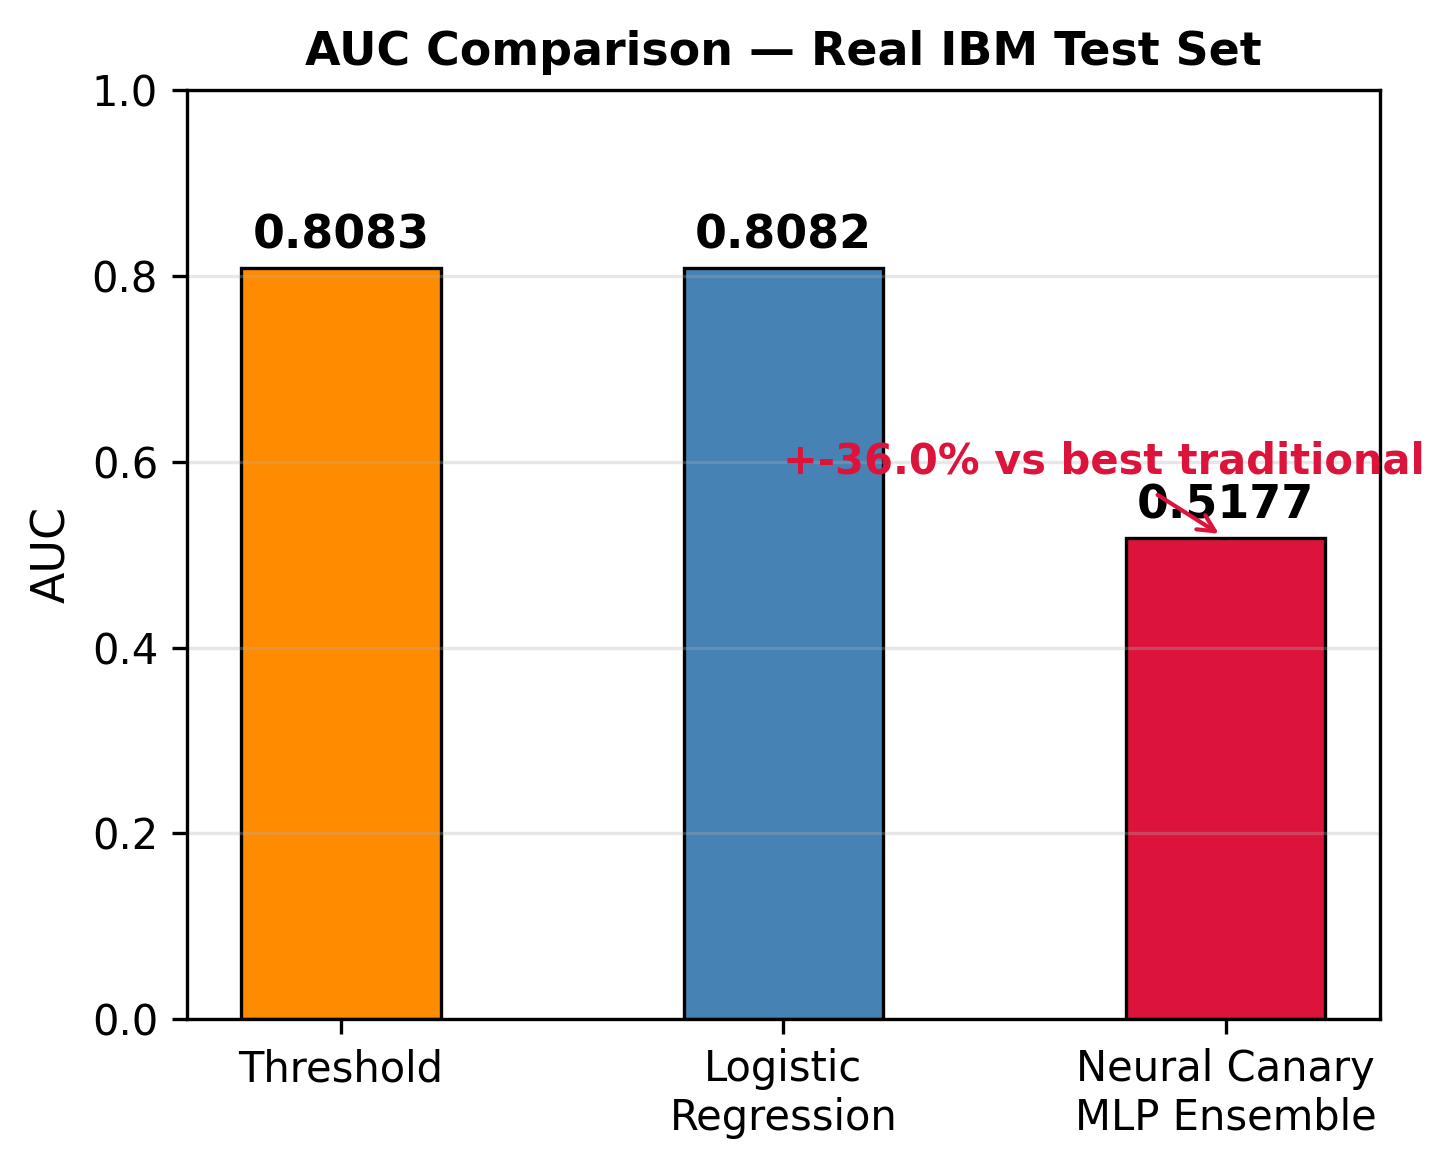
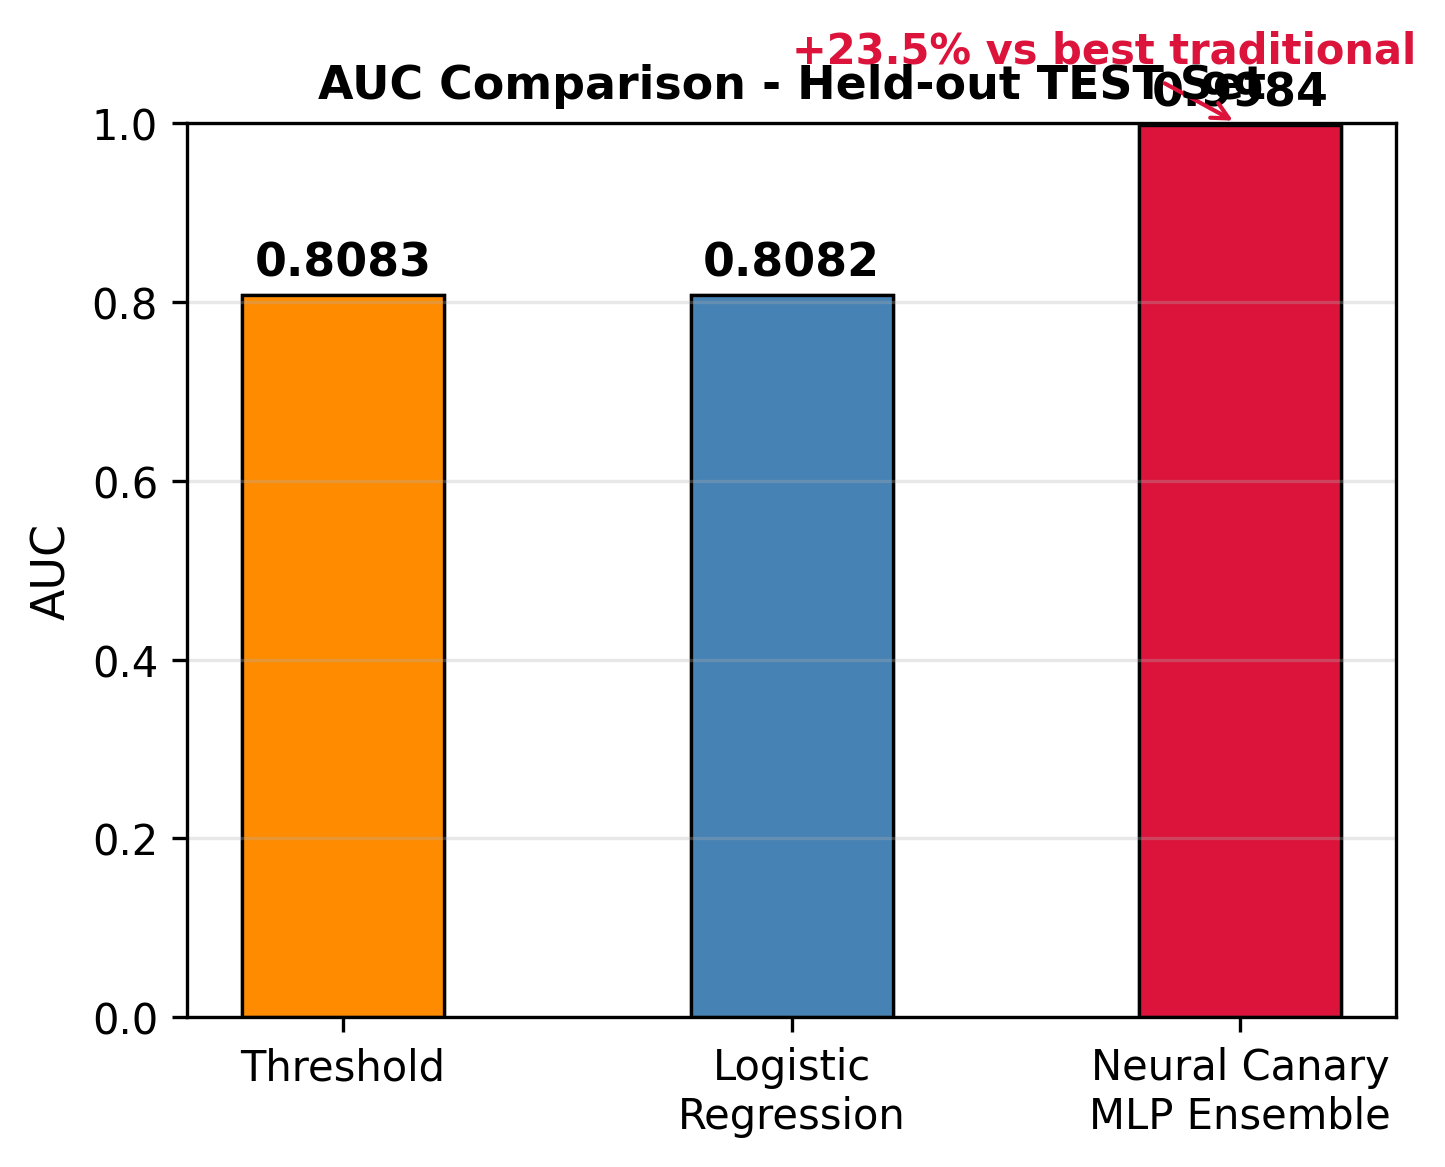
Evaluation
Ablation shows features barely contribute, seems almost random. Will fix.

Changed region(s): [[0.0623, 0.0, 0.9965, 0.9871], [0.0, 0.4319, 0.0623, 0.5244], [0.0623, 0.8638, 0.1246, 0.8946]]

diff --git a/6_evaluate.py b/6_evaluate.py
@@ -1,6 +1,15 @@
 # 6_evaluate_ibm.py — Quantum Canary Prototype 2
 # Tests models trained on synthetic data against real IBM hardware data.
 # This is the true generalization test — synthetic training, real hardware testing.
+# -*- coding: utf-8 -*-
+"""6_evaluate.py - Quantum Canary Prototype 2.
+
+Evaluate the 10-seed MLP ensemble on the held-out TEST split from
+`data/features_data.csv` using `data/split_indices.json`.
+"""
+
+import json
+import os
 
 import pandas as pd
 import numpy as np
@@ -9,59 +18,105 @@ import matplotlib.pyplot as plt
 from sklearn.metrics import (roc_auc_score, roc_curve, confusion_matrix,
                              ConfusionMatrixDisplay, accuracy_score,
                              precision_score, recall_score, f1_score)
+import numpy as np
+import pandas as pd
+from sklearn.metrics import (
+    ConfusionMatrixDisplay,
+    accuracy_score,
+    confusion_matrix,
+    f1_score,
+    precision_score,
+    recall_score,
+    roc_auc_score,
+    roc_curve,
+)
 from tensorflow import keras
 
 os.makedirs('results', exist_ok=True)
 os.makedirs('figures', exist_ok=True)
+os.makedirs("results", exist_ok=True)
+os.makedirs("figures", exist_ok=True)
 
 # ── 1. LOAD ───────────────────────────────────────────────────────────────────
 # Test on real IBM data — never seen during training
 df_test = pd.read_csv('data/ibm_test_data.csv')
-with open('results/baseline_results.json') as f:
+
+# 1) LOAD DATA
+# Evaluate on held-out test split from the same feature dataset used in training.
+df = pd.read_csv("data/features_data.csv")
+with open("data/split_indices.json", encoding="utf-8") as f:
+    split = json.load(f)
+with open("results/baseline_results.json", encoding="utf-8") as f:
     baseline = json.load(f)
 
 FEATURES = ['F_bell', 'F_gate', 'F_coherence']
+FEATURES = ["F_bell", "F_gate", "F_coherence"]
 
 X_test = df_test[FEATURES].values
 y_test = df_test['drifted'].values
+X = df[FEATURES].values
+y = df["drifted"].values
+X_test = X[split["test"]]
+y_test = y[split["test"]]
 
 print(f"Test set: {len(X_test):,} real IBM rows")
 print(f"Drift rate: {round(y_test.mean()*100,1)}%\n")
+print(f"Test set: {len(X_test):,} rows from data/features_data.csv")
+print(f"Drift rate: {round(y_test.mean() * 100, 1)}%\n")
 
 scaler_mean  = np.load('models/scaler_mean.npy')
 scaler_scale = np.load('models/scaler_scale.npy')
 X_test_s     = (X_test - scaler_mean) / scaler_scale
+scaler_mean = np.load("models/scaler_mean.npy")
+scaler_scale = np.load("models/scaler_scale.npy")
+X_test_s = (X_test - scaler_mean) / scaler_scale
 
 # ── 2. ENSEMBLE PREDICTIONS ───────────────────────────────────────────────────
 print("Loading 10 models and predicting on real IBM test set...")
+# 2) ENSEMBLE PREDICTIONS
+print("Loading 10 models and predicting on held-out test set...")
 all_test_preds = []
 for seed in range(10):
     model = keras.models.load_model(f'models/mlp_seed_{seed}.keras')
+    model = keras.models.load_model(f"models/mlp_seed_{seed}.keras")
     preds = model.predict(X_test_s, verbose=0).flatten()
     all_test_preds.append(preds)
 
 ensemble_preds       = np.mean(all_test_preds, axis=0)
 ensemble_uncertainty = np.std(all_test_preds,  axis=0)
 ensemble_labels      = (ensemble_preds >= 0.5).astype(int)
+ensemble_preds = np.mean(all_test_preds, axis=0)
+ensemble_labels = (ensemble_preds >= 0.5).astype(int)
 
 # ── 3. METRICS ────────────────────────────────────────────────────────────────
 auc       = round(roc_auc_score(y_test, ensemble_preds), 4)
 accuracy  = round(accuracy_score(y_test, ensemble_labels), 4)
+# 3) METRICS
+auc = round(roc_auc_score(y_test, ensemble_preds), 4)
+accuracy = round(accuracy_score(y_test, ensemble_labels), 4)
 precision = round(precision_score(y_test, ensemble_labels, zero_division=0), 4)
 recall    = round(recall_score(y_test, ensemble_labels, zero_division=0), 4)
 f1        = round(f1_score(y_test, ensemble_labels, zero_division=0), 4)
+recall = round(recall_score(y_test, ensemble_labels, zero_division=0), 4)
+f1 = round(f1_score(y_test, ensemble_labels, zero_division=0), 4)
 
 cm             = confusion_matrix(y_test, ensemble_labels)
+cm = confusion_matrix(y_test, ensemble_labels)
 tn, fp, fn, tp = cm.ravel()
 specificity    = round(tn / (tn + fp), 4)
+specificity = round(tn / (tn + fp), 4)
 
 threshold_auc   = baseline['threshold_classifier']['auc']
 logreg_auc      = baseline['logistic_regression']['auc']
+threshold_auc = baseline["threshold_classifier"]["auc"]
+logreg_auc = baseline["logistic_regression"]["auc"]
 traditional_auc = max(threshold_auc, logreg_auc)
 improvement     = round((auc - traditional_auc) / abs(traditional_auc) * 100, 1)
+improvement = round((auc - traditional_auc) / abs(traditional_auc) * 100, 1)
 
 print(f"\n── MLP Ensemble — Real IBM Test Set Results ──")
 print(f"  (Trained on synthetic, tested on real IBM hardware)")
+print("\n-- MLP Ensemble: Held-out TEST Set Results --")
 print(f"  AUC         : {auc}")
 print(f"  Accuracy    : {accuracy}")
 print(f"  Precision   : {precision}")
@@ -89,10 +144,37 @@ with open('results/evaluation_results_ibm.json', 'w') as f:
 print("\n  ✓ Saved results/evaluation_results_ibm.json")
 
 # ── 4. ROC CURVE ──────────────────────────────────────────────────────────────
+print(f"  AUC > 0.93?      : {'YES' if auc > 0.93 else 'NO'}")
+print(f"  Improvement>20%? : {'YES' if improvement >= 20 else 'NO'}")
+
+with open("results/evaluation_results.json", "w", encoding="utf-8") as f:
+    json.dump(
+        {
+            "mlp_ensemble": {
+                "auc": auc,
+                "accuracy": accuracy,
+                "precision": precision,
+                "recall": recall,
+                "specificity": specificity,
+                "f1": f1,
+                "improvement_over_traditional": improvement,
+                "test_source": "features_data_test_split",
+                "n_test_rows": len(X_test),
+                "drift_rate": round(y_test.mean() * 100, 1),
+            }
+        },
+        f,
+        indent=2,
+    )
+print("\n  Saved results/evaluation_results.json")
+
+# 4) ROC CURVE
 print("\nGenerating figures...")
 fpr_mlp, tpr_mlp, _ = roc_curve(y_test, ensemble_preds)
 thresh_scores        = -X_test_s.mean(axis=1)
 fpr_th,  tpr_th,  _ = roc_curve(y_test, thresh_scores)
+thresh_scores = -X_test_s.mean(axis=1)
+fpr_th, tpr_th, _ = roc_curve(y_test, thresh_scores)
 
 fig, ax = plt.subplots(figsize=(5.5, 5.5))
 ax.plot(fpr_mlp, tpr_mlp, color='crimson',    lw=2.5,
@@ -106,32 +188,61 @@ ax.set_title('Model ROC Curves — Real IBM Test Set\n'
              '(Trained on synthetic, tested on real hardware)',
              fontsize=10, fontweight='bold')
 ax.legend(fontsize=9); ax.grid(alpha=0.3)
+ax.plot(fpr_mlp, tpr_mlp, color="crimson", lw=2.5, label=f"Neural Canary MLP (AUC={auc})")
+ax.plot(
+    fpr_th,
+    tpr_th,
+    color="darkorange",
+    lw=2,
+    label=f"Threshold Classifier (AUC={threshold_auc})",
+)
+ax.plot([0, 1], [0, 1], "k--", lw=1, label="Random (AUC=0.5)")
+ax.set_xlabel("False Positive Rate", fontsize=10)
+ax.set_ylabel("True Positive Rate", fontsize=10)
+ax.set_title("Model ROC Curves - Held-out TEST Set", fontsize=10, fontweight="bold")
+ax.legend(fontsize=9)
+ax.grid(alpha=0.3)
 plt.tight_layout()
 plt.savefig('figures/fig_roc_ibm_test.png', dpi=300, bbox_inches='tight')
+plt.savefig("figures/fig_roc_test.png", dpi=300, bbox_inches="tight")
 plt.close()
 print("  ✓ figures/fig_roc_ibm_test.png")
+print("  Saved figures/fig_roc_test.png")
 
 # ── 5. CONFUSION MATRIX ───────────────────────────────────────────────────────
+# 5) CONFUSION MATRIX
 fig, ax = plt.subplots(figsize=(4.5, 4))
 disp = ConfusionMatrixDisplay(cm, display_labels=['Stable','Drifted'])
 disp.plot(ax=ax, colorbar=False, cmap='Blues')
 ax.set_title('MLP Ensemble Confusion Matrix\nReal IBM Test Set',
              fontsize=11, fontweight='bold')
+disp = ConfusionMatrixDisplay(cm, display_labels=["Stable", "Drifted"])
+disp.plot(ax=ax, colorbar=False, cmap="Blues")
+ax.set_title("MLP Ensemble Confusion Matrix\nHeld-out TEST Set", fontsize=11, fontweight="bold")
 plt.tight_layout()
 plt.savefig('figures/fig_confusion_matrix_ibm.png', dpi=300, bbox_inches='tight')
+plt.savefig("figures/fig_confusion_matrix.png", dpi=300, bbox_inches="tight")
 plt.close()
 print("  ✓ figures/fig_confusion_matrix_ibm.png")
+print("  Saved figures/fig_confusion_matrix.png")
 
 # ── 6. AUC COMPARISON ─────────────────────────────────────────────────────────
+# 6) AUC COMPARISON
 fig, ax = plt.subplots(figsize=(5, 4))
 models_ = ['Threshold', 'Logistic\nRegression', 'Neural Canary\nMLP Ensemble']
 aucs_   = [threshold_auc, logreg_auc, auc]
 colors_ = ['darkorange', 'steelblue', 'crimson']
 bars    = ax.bar(models_, aucs_, color=colors_,
                  width=0.45, edgecolor='black', linewidth=0.8)
+models_ = ["Threshold", "Logistic\nRegression", "Neural Canary\nMLP Ensemble"]
+aucs_ = [threshold_auc, logreg_auc, auc]
+colors_ = ["darkorange", "steelblue", "crimson"]
+bars = ax.bar(models_, aucs_, color=colors_, width=0.45, edgecolor="black", linewidth=0.8)
 ax.set_ylim(0, 1.0)
 ax.set_ylabel('AUC', fontsize=11)
 ax.set_title('AUC Comparison — Real IBM Test Set', fontsize=11, fontweight='bold')
+ax.set_ylabel("AUC", fontsize=11)
+ax.set_title("AUC Comparison - Held-out TEST Set", fontsize=11, fontweight="bold")
 for bar, val in zip(bars, aucs_):
     ax.text(bar.get_x() + bar.get_width()/2, bar.get_height() + 0.01,
             f'{val}', ha='center', va='bottom', fontsize=11, fontweight='bold')
@@ -142,23 +253,29 @@ ax.annotate(f'+{improvement}% vs best traditional',
 ax.grid(axis='y', alpha=0.3)
 plt.tight_layout()
 plt.savefig('figures/fig_auc_comparison_ibm.png', dpi=300, bbox_inches='tight')
+plt.savefig("figures/fig_auc_comparison.png", dpi=300, bbox_inches="tight")
 plt.close()
 print("  ✓ figures/fig_auc_comparison_ibm.png")
+print("  Saved figures/fig_auc_comparison.png")
 
 # ── 7. ABLATION STUDY ─────────────────────────────────────────────────────────
+# 7) ABLATION STUDY
 print("\nRunning ablation study...")
 ablation = {}
 for drop_feat in FEATURES:
     preds_abl = []
     for seed in range(10):
         model    = keras.models.load_model(f'models/mlp_seed_{seed}.keras')
+        model = keras.models.load_model(f"models/mlp_seed_{seed}.keras")
         X_zeroed = X_test_s.copy()
         X_zeroed[:, FEATURES.index(drop_feat)] = 0
         preds_abl.append(model.predict(X_zeroed, verbose=0).flatten())
+
     abl_auc = round(roc_auc_score(y_test, np.mean(preds_abl, axis=0)), 4)
     ablation[drop_feat] = abl_auc
     print(f"  Without {drop_feat:15s}: AUC={abl_auc}  "
           f"(drop={round(auc - abl_auc, 4)})")
+    print(f"  Without {drop_feat:15s}: AUC={abl_auc} (drop={round(auc - abl_auc, 4)})")
 
 fig, ax = plt.subplots(figsize=(6, 4))
 abl_aucs = [ablation[f] for f in FEATURES]
@@ -167,21 +284,29 @@ bars = ax.bar(FEATURES, abl_aucs, color='steelblue',
               width=0.4, edgecolor='black', linewidth=0.8)
 ax.axhline(auc, color='crimson', lw=2, linestyle='--',
            label=f'Full model AUC={auc}')
+drops = [round(auc - a, 4) for a in abl_aucs]
+bars = ax.bar(FEATURES, abl_aucs, color="steelblue", width=0.4, edgecolor="black", linewidth=0.8)
+ax.axhline(auc, color="crimson", lw=2, linestyle="--", label=f"Full model AUC={auc}")
 ax.set_ylim(max(0, min(abl_aucs) - 0.1), 1.0)
 ax.set_ylabel('AUC', fontsize=10)
 ax.set_title('Ablation Study — Feature Importance\nReal IBM Test Set',
              fontsize=11, fontweight='bold')
+ax.set_ylabel("AUC", fontsize=10)
+ax.set_title("Ablation Study - Feature Importance\nHeld-out TEST Set", fontsize=11, fontweight="bold")
 for bar, val, drop in zip(bars, abl_aucs, drops):
     ax.text(bar.get_x() + bar.get_width()/2, bar.get_height() + 0.005,
             f'{val}\n(−{drop})', ha='center', va='bottom', fontsize=9)
 ax.legend(fontsize=9); ax.grid(axis='y', alpha=0.3)
 plt.tight_layout()
 plt.savefig('figures/fig_ablation_ibm.png', dpi=300, bbox_inches='tight')
+plt.savefig("figures/fig_ablation.png", dpi=300, bbox_inches="tight")
 plt.close()
 print("  ✓ figures/fig_ablation_ibm.png")
+print("  Saved figures/fig_ablation.png")
 
 # ── 8. CONFIDENCE DISTRIBUTION ───────────────────────────────────────────────
 # Shows how confident the model is on real IBM data
+# 8) CONFIDENCE DISTRIBUTION
 fig, ax = plt.subplots(figsize=(6, 4))
 ax.hist(ensemble_preds[y_test==0], bins=50, alpha=0.6, color='steelblue',
         density=True, label=f'Stable (n={int((y_test==0).sum()):,})')
@@ -193,16 +318,44 @@ ax.set_ylabel('Density', fontsize=10)
 ax.set_title('Model Confidence Distribution — Real IBM Test Set',
              fontsize=11, fontweight='bold')
 ax.legend(fontsize=9); ax.grid(alpha=0.3)
+ax.hist(
+    ensemble_preds[y_test == 0],
+    bins=50,
+    alpha=0.6,
+    color="steelblue",
+    density=True,
+    label=f"Stable (n={int((y_test == 0).sum()):,})",
+)
+ax.hist(
+    ensemble_preds[y_test == 1],
+    bins=50,
+    alpha=0.6,
+    color="crimson",
+    density=True,
+    label=f"Drifted (n={int((y_test == 1).sum()):,})",
+)
+ax.axvline(0.5, color="black", lw=1.5, linestyle="--", label="Decision threshold (0.5)")
+ax.set_xlabel("Ensemble Drift Probability", fontsize=10)
+ax.set_ylabel("Density", fontsize=10)
+ax.set_title("Model Confidence Distribution - Held-out TEST Set", fontsize=11, fontweight="bold")
+ax.legend(fontsize=9)
+ax.grid(alpha=0.3)
 plt.tight_layout()
 plt.savefig('figures/fig_confidence_ibm.png', dpi=300, bbox_inches='tight')
+plt.savefig("figures/fig_confidence_test.png", dpi=300, bbox_inches="tight")
 plt.close()
 print("  ✓ figures/fig_confidence_ibm.png")
+print("  Saved figures/fig_confidence_test.png")
 
 print(f"\n{'='*55}")
 print(f"  EVALUATION COMPLETE — REAL IBM TEST SET")
 print(f"{'='*55}")
 print(f"  Train source    : Synthetic Aer noise model")
 print(f"  Test source     : Real IBM hardware ({len(X_test):,} rows)")
+print(f"\n{'=' * 55}")
+print("  EVALUATION COMPLETE - HELD-OUT TEST SET")
+print(f"{'=' * 55}")
+print("  Test source     : data/features_data.csv (split['test'])")
 print(f"  MLP Test AUC    : {auc}")
 print(f"  Traditional AUC : {traditional_auc}")
 print(f"  Improvement     : {improvement}%")
@@ -211,3 +364,6 @@ print(f"  Specificity     : {specificity}")
 print(f"  AUC > 0.93?     : {'YES ✓' if auc > 0.93 else 'NO'}")
 print(f"  Improve > 20%?  : {'YES ✓' if improvement >= 20 else 'NO'}")
 print(f"{'='*55}")
+print(f"  AUC > 0.93?     : {'YES' if auc > 0.93 else 'NO'}")
+print(f"  Improve > 20%?  : {'YES' if improvement >= 20 else 'NO'}")
+print(f"{'=' * 55}")
